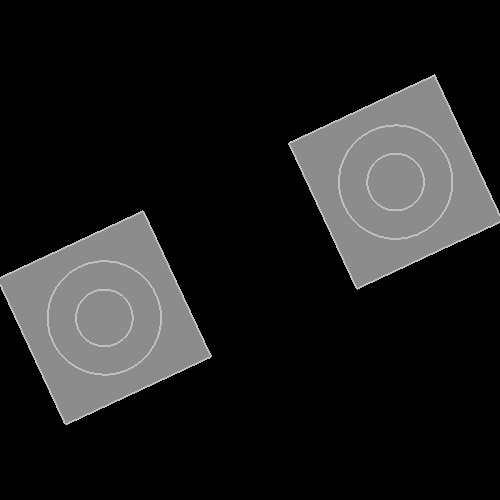
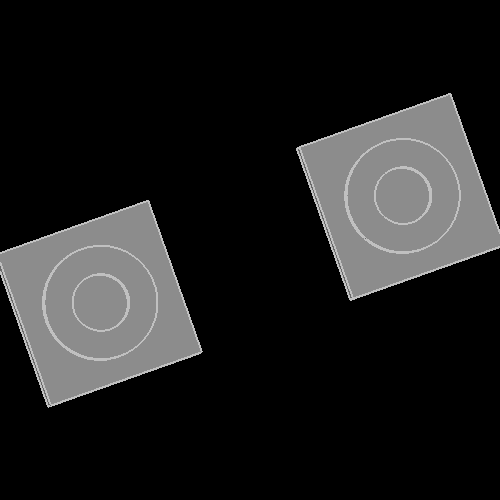
[Viewport] Handle predefined views independent from view cube.

diff --git a/Source/Macad.Interaction/Workspace/ViewportController.cs b/Source/Macad.Interaction/Workspace/ViewportController.cs
@@ -3,16 +3,14 @@ using System.Collections.Generic;
 using System.Diagnostics;
 using System.Drawing;
 using System.Windows;
-using System.Windows.Forms;
 using System.Windows.Input;
 using Macad.Common;
 using Macad.Common.Interop;
 using Macad.Core;
-using Macad.Core.Shapes;
 using Macad.Occt;
 using Macad.Occt.Helper;
+using Macad.Occt.Extensions;
 using Macad.Resources;
-using static Macad.Core.Viewport;
 using Color = Macad.Common.Color;
 using Point = System.Windows.Point;
 
@@ -57,7 +55,7 @@ public sealed class ViewportController : BaseObject, IDisposable
             {
                 if (value)
                 {
-                    SetPredefinedView(PredefinedViews.WorkingPlane);
+                    SetPredefinedView(PredefinedViews.WorkingPlane, true);
                         
                 }
                 _LockedToPlane = value;
@@ -157,7 +155,7 @@ public sealed class ViewportController : BaseObject, IDisposable
     readonly List<ValueTuple<int, int>> _RubberbandPoints = new();
 
     AIS_AnimationCamera _AisAnimationCamera;
-    Macad.Occt.Ext.AIS_ViewCubeEx _AisViewCube;
+    AIS_ViewCubeEx _AisViewCube;
 
     //--------------------------------------------------------------------------------------------------
 
@@ -304,7 +302,7 @@ public sealed class ViewportController : BaseObject, IDisposable
 
     //--------------------------------------------------------------------------------------------------
 
-    public void SetPredefinedView(PredefinedViews predefinedView)
+    public void SetPredefinedView(PredefinedViews predefinedView, bool animate=false)
     {
         if (predefinedView == PredefinedViews.WorkingPlane)
         {
@@ -317,42 +315,72 @@ public sealed class ViewportController : BaseObject, IDisposable
             WorkspaceController.Invalidate();
             return;
         }
-        
+
         // Currently the view cube is needed to execute the rotation. This is
         // ok as long as there is always a view cube present when rotation is allowed.
-        if(_LockedToPlane || _AisViewCube == null)
+        if (_LockedToPlane)
             return;
 
-        V3d_TypeOfOrientation orientation;
-        switch (predefinedView)
+        if (animate
+            && _AisAnimationCamera.Duration() > 0.001)
         {
-            case PredefinedViews.Top:
-                orientation = V3d_TypeOfOrientation.Zup_Top;
-                break;
-            case PredefinedViews.Bottom:
-                orientation = V3d_TypeOfOrientation.Zup_Bottom;
-                break;
-            case PredefinedViews.Left:
-                orientation = V3d_TypeOfOrientation.Zup_Left;
-                break;
-            case PredefinedViews.Right:
-                orientation = V3d_TypeOfOrientation.Zup_Right;
-                break;
-            case PredefinedViews.Front:
-                orientation = V3d_TypeOfOrientation.Zup_Front;
-                break;
-            case PredefinedViews.Back:
-                orientation = V3d_TypeOfOrientation.Zup_Back;
-                break;
-            default:
-                return;
+            Graphic3d_Camera camStart = new();
+            Graphic3d_Camera camEnd = new();
+            Graphic3d_Camera camBackup = V3dView.Camera();
+            camStart.Copy(camBackup);
+            camEnd.Copy(camBackup);
+
+            bool wasImmediateUpdate = V3dView.SetImmediateUpdate(false);
+            V3dView.SetCamera(camEnd);
+
+            __ApplyPredefinedView();
+
+            V3dView.SetCamera(camBackup);
+            V3dView.SetImmediateUpdate(wasImmediateUpdate);
+            _AisAnimationCamera.SetCameraStart(camStart);
+            _AisAnimationCamera.SetCameraEnd(camEnd);
+            _AisAnimationCamera.StartTimer(0.0, 1.0, true, false);
+
+            camStart.Dispose();
+            camEnd.Dispose();
+            camBackup.Dispose();
         }
+        else
+        {
+            __ApplyPredefinedView();
+        }
+        return;
 
-        var viewCubeOwner = new AIS_ViewCubeOwner(_AisViewCube, orientation);
-        _AisViewCube.HandleClick(viewCubeOwner);
-        viewCubeOwner.Dispose();
+        //--------------------------------------------------------------------------------------------------
 
-        WorkspaceController.Invalidate();
+        void __ApplyPredefinedView()
+        {
+            V3d_TypeOfOrientation? orientation =
+                predefinedView switch
+                {
+                    PredefinedViews.Top => V3d_TypeOfOrientation.Zup_Top,
+                    PredefinedViews.Bottom => V3d_TypeOfOrientation.Zup_Bottom,
+                    PredefinedViews.Left => V3d_TypeOfOrientation.Zup_Left,
+                    PredefinedViews.Right => V3d_TypeOfOrientation.Zup_Right,
+                    PredefinedViews.Front => V3d_TypeOfOrientation.Zup_Front,
+                    PredefinedViews.Back => V3d_TypeOfOrientation.Zup_Back,
+                    _ => null
+                };
+
+            if (orientation.HasValue)
+            {
+                V3dView.SetProj(orientation.Value);
+               
+                if (WorkspaceController.Selection.SelectedEntities.Count > 0)
+                {
+                    ZoomFitSelected(); // Will also sync from V3dView to Viewport and invalidate
+                }
+                else
+                {
+                    ZoomFitAll(); // Will also sync from V3dView to Viewport and Invalidate
+                }
+            }
+        }
     }
 
     //--------------------------------------------------------------------------------------------------
@@ -665,10 +693,12 @@ public sealed class ViewportController : BaseObject, IDisposable
     void _SetViewCube(bool isVisible, uint size, double duration)
     {
         var aisContext = WorkspaceController.AisContext;
-            
+        duration += 0.001; // Avoid zero duration to force at least one frame of updating
+
         if (_AisViewCube != null)
         {
             __SetSize(size);
+            _AisViewCube.SetDuration(duration);
             _SetViewCube(isVisible);
             return;
         }
@@ -942,9 +972,10 @@ public sealed class ViewportController : BaseObject, IDisposable
     void _UpdateFromViewParameterSet()
     {
         var parameterSet = InteractiveContext.Current.Parameters.Get<ViewportParameterSet>();
-        _SetViewCube(parameterSet.ShowViewCube, parameterSet.ViewCubeSize, parameterSet.ViewCubeAnimationDuration);
-        _SetTrihedron(parameterSet.ShowTrihedron);
         _ShowTrihedron = parameterSet.ShowTrihedron;
+        _AisAnimationCamera.SetOwnDuration(parameterSet.CameraAnimationDuration);
+        _SetViewCube(parameterSet.ShowViewCube, parameterSet.ViewCubeSize, parameterSet.CameraAnimationDuration);
+        _SetTrihedron(_ShowTrihedron);
     }
 
     //--------------------------------------------------------------------------------------------------
@@ -985,10 +1016,10 @@ public sealed class ViewportController : BaseObject, IDisposable
         if (V3dView == null)
             return;
 
-        V3dView.SetComputedMode(Viewport.RenderMode == RenderModes.HLR);
+        V3dView.SetComputedMode(Viewport.RenderMode == Viewport.RenderModes.HLR);
 
         var renderParams = V3dView.ChangeRenderingParams();
-        if (Viewport.RenderMode == RenderModes.Raytraced)
+        if (Viewport.RenderMode == Viewport.RenderModes.Raytraced)
         {
             renderParams.Method = Graphic3d_RenderingMode.RAYTRACING;
         }

diff --git a/Tests/Test.Interaction/Infrastructure/ViewportTests.cs b/Tests/Test.Interaction/Infrastructure/ViewportTests.cs
@@ -271,7 +271,7 @@ public class ViewportTests
             Assert.That(paramsPost, Is.Not.EqualTo(paramsPre));
 
             // Select predefined view
-            ctx.WorkspaceController.ActiveViewControlller.SetPredefinedView(ViewportController.PredefinedViews.Front);
+            ctx.WorkspaceController.ActiveViewControlller.SetPredefinedView(ViewportController.PredefinedViews.Front, true);
             Thread.Sleep(500);
             ctx.WorkspaceController.Invalidate(forceRedraw: true);
             paramsPost = ctx.Viewport.GetViewParameters();
@@ -324,4 +324,76 @@ public class ViewportTests
         ctx.ViewportController.PanToCenter(bodies[0].Position);
         AssertHelper.IsSameViewport(Path.Combine(_BasePath, "PanToCenter01"));
     }
+
+    //--------------------------------------------------------------------------------------------------
+
+    [Test]
+    public void PredefinedViews()
+    {
+        var ctx = Context.Current;
+        var vc = ctx.ViewportController;
+
+        var viewportParameterSet = InteractiveContext.Current.Parameters.Get<ViewportParameterSet>();
+        viewportParameterSet.ShowTrihedron = true;
+        viewportParameterSet.ShowViewCube = true;
+        viewportParameterSet.ViewCubeSize = 300;
+
+        Assert.Multiple(() =>
+        {
+            vc.SetPredefinedView(ViewportController.PredefinedViews.Front, false);
+            Assert.That(vc.Viewport.GetViewDirection().IsEqual(Dir.DY, 1e-10));
+            Assert.That(vc.Viewport.GetRightDirection().IsEqual(Dir.DX, 1e-10));
+            Assert.That(vc.Viewport.GetUpDirection().IsEqual(Dir.DZ, 1e-10));
+
+            vc.SetPredefinedView(ViewportController.PredefinedViews.Back, false);
+            Assert.That(vc.Viewport.GetViewDirection().IsEqual(Dir.DY.Reversed(), 1e-10));
+            Assert.That(vc.Viewport.GetRightDirection().IsEqual(Dir.DX.Reversed(), 1e-10));
+            Assert.That(vc.Viewport.GetUpDirection().IsEqual(Dir.DZ, 1e-10));
+
+            vc.SetPredefinedView(ViewportController.PredefinedViews.Right, false);
+            Assert.That(vc.Viewport.GetViewDirection().IsEqual(Dir.DX.Reversed(), 1e-10));
+            Assert.That(vc.Viewport.GetRightDirection().IsEqual(Dir.DY, 1e-10));
+            Assert.That(vc.Viewport.GetUpDirection().IsEqual(Dir.DZ, 1e-10));
+
+            vc.SetPredefinedView(ViewportController.PredefinedViews.Left, false);
+            Assert.That(vc.Viewport.GetViewDirection().IsEqual(Dir.DX, 1e-10));
+            Assert.That(vc.Viewport.GetRightDirection().IsEqual(Dir.DY.Reversed(), 1e-10));
+            Assert.That(vc.Viewport.GetUpDirection().IsEqual(Dir.DZ, 1e-10));
+
+            vc.SetPredefinedView(ViewportController.PredefinedViews.Top, false);
+            Assert.That(vc.Viewport.GetViewDirection().IsEqual(Dir.DZ.Reversed(), 1e-10));
+            Assert.That(vc.Viewport.GetRightDirection().IsEqual(Dir.DX, 1e-10));
+            Assert.That(vc.Viewport.GetUpDirection().IsEqual(Dir.DY, 1e-10));
+
+            vc.SetPredefinedView(ViewportController.PredefinedViews.Bottom, false);
+            Assert.That(vc.Viewport.GetViewDirection().IsEqual(Dir.DZ, 1e-10));
+            Assert.That(vc.Viewport.GetRightDirection().IsEqual(Dir.DX, 1e-10));
+            Assert.That(vc.Viewport.GetUpDirection().IsEqual(Dir.DY.Reversed(), 1e-10));
+
+            //AssertHelper.IsSameViewport(Path.Combine(_BasePath, $"PredefinedViews"));
+        });
+    }
+
+    //--------------------------------------------------------------------------------------------------
+
+    [Test]
+    public void PredefinedViewsZoomFit()
+    {
+        var ctx = Context.Current;
+        var vc = ctx.ViewportController;
+
+        Assert.Multiple(() =>
+        {
+            var bodies = TestGeomGenerator.CreateBoxCylinderSphere();
+            vc.SetPredefinedView(ViewportController.PredefinedViews.Front, false);
+            AssertHelper.IsSameViewport(Path.Combine(_BasePath, "PredefinedViewsZoomFit01"));
+
+            ctx.WorkspaceController.Selection.SelectEntity(bodies[0]);
+            vc.SetPredefinedView(ViewportController.PredefinedViews.Front, false);
+            AssertHelper.IsSameViewport(Path.Combine(_BasePath, "PredefinedViewsZoomFit02"));
+        });
+    }
+
+    //--------------------------------------------------------------------------------------------------
+
 }

diff --git a/Source/Macad.Interaction/Workspace/ViewportParameterSet.cs b/Source/Macad.Interaction/Workspace/ViewportParameterSet.cs
@@ -46,12 +46,12 @@ public sealed partial class ViewportParameterSet
 
     //--------------------------------------------------------------------------------------------------
 
-    Parameter<double> _ViewCubeAnimationDuration = new()
+    Parameter<double> _CameraAnimationDuration = new()
     {
-        Name = "ViewCubeAnimationDuration",
+        Name = "CameraAnimationDuration",
         DefaultValue = 0.3,
-        Description = "Defines the duration of the view cube rotation animation in seconds.",
-        EditorHints = new() { { "Units", "Seconds" }, { "MinValue", 0.1 }, { "MaxValue", 10.0 }, { "Precision", 1 } }
+        Description = "Defines the duration of the camera view rotation when switching to a defined view.",
+        EditorHints = new() { { "Units", "Seconds" }, { "MinValue", 0.0 }, { "MaxValue", 10.0 }, { "Precision", 1 } }
     };
 
     //--------------------------------------------------------------------------------------------------

diff --git a/Source/Macad.Managed/OcctExtensions/AIS_ViewCubeEx.h b/Source/Macad.Managed/OcctExtensions/AIS_ViewCubeEx.h
@@ -2,10 +2,8 @@
 
 #include <AIS_ViewCube.hxx>
 
-DEFINE_STANDARD_HANDLE(AIS_ViewCubeEx, AIS_ViewCube)
 
-
-public class AIS_ViewCubeEx : public ::AIS_ViewCube
+class AIS_ViewCubeEx : public ::AIS_ViewCube
 {
 	DEFINE_STANDARD_RTTIEXT(AIS_ViewCubeEx, AIS_ViewCube)
 
@@ -25,3 +23,5 @@ protected:
 	                            Standard_Integer& theNbNodes, Standard_Integer& theNbTris,
 	                            V3d_TypeOfOrientation theDirection) const override;
 };
+
+DEFINE_STANDARD_HANDLE(AIS_ViewCubeEx, AIS_ViewCube)

diff --git a/Source/Macad.Interaction/Commands/WorkspaceCommands.cs b/Source/Macad.Interaction/Commands/WorkspaceCommands.cs
@@ -554,7 +554,7 @@ public static class WorkspaceCommands
     public static ActionCommand<ViewportController.PredefinedViews> SetPredefinedView { get; } = new(
         (param) =>
         {
-            InteractiveContext.Current?.ViewportController?.SetPredefinedView(param);
+            InteractiveContext.Current?.ViewportController?.SetPredefinedView(param, true);
         },
         (param) => CanExecuteOnViewport() && !InteractiveContext.Current.ViewportController.LockedToPlane)
     {

diff --git a/Tests/Test.Interaction/Sketch/SketchEditorToolTests.cs b/Tests/Test.Interaction/Sketch/SketchEditorToolTests.cs
@@ -1023,7 +1023,6 @@ public class SketchEditorToolTests
 
         // Select predefined topview
         ctx.WorkspaceController.ActiveViewControlller.SetPredefinedView(ViewportController.PredefinedViews.Top);
-        Thread.Sleep(500);
         ctx.WorkspaceController.Invalidate(forceRedraw:true);
 //            AssertHelper.IsSameViewport(Path.Combine(_BasePath, "RestoreWorkingContext22"), 0.1);
             

diff --git a/Source/Macad.Core/Project/Viewport.cs b/Source/Macad.Core/Project/Viewport.cs
@@ -226,6 +226,7 @@ public sealed class Viewport : BaseObject, IDisposable
             return false;
         }
         xVec.Normalize();
+        xVec.Rotate(new (Pnt.Origin, viewDir), _Twist.ToRad());
 
         Vec zVec = xVec.Coord.Crossed(viewDir.Coord).ToVec();
         if (zVec.Magnitude() <= gp.Resolution)

diff --git a/Tests/Test.Memory/Interaction/ToolTests.cs b/Tests/Test.Memory/Interaction/ToolTests.cs
@@ -9,7 +9,7 @@ using Macad.Interaction;
 using Macad.Interaction.Editors.Shapes;
 using Macad.Interaction.Editors.Toolkits;
 using Macad.Interaction.Visual;
-using Macad.Occt.Ext;
+using Macad.Occt.Extensions;
 using NUnit.Framework;
 
 namespace Macad.Test.Memory.Interaction;

diff --git a/Source/Macad.Interaction/Visual/Marker.cs b/Source/Macad.Interaction/Visual/Marker.cs
@@ -5,7 +5,7 @@ using System.Windows.Media.Imaging;
 using Macad.Common;
 using Macad.Core;
 using Macad.Occt;
-using Macad.Occt.Ext;
+using Macad.Occt.Extensions;
 using Macad.Occt.Helper;
 using Macad.Resources;
 

diff --git a/Source/Macad.Managed/OcctExtensions/AIS_ViewCubeEx_Managed.cpp b/Source/Macad.Managed/OcctExtensions/AIS_ViewCubeEx_Managed.cpp
@@ -8,7 +8,7 @@ namespace Macad
 {
 	namespace Occt
 	{
-		namespace Ext
+		namespace Extensions
 		{
 			public ref class AIS_ViewCubeEx sealed : public Macad::Occt::AIS_ViewCube
 			{

diff --git a/Source/Macad.Managed/OcctExtensions/AIS_PointEx_Managed.cpp b/Source/Macad.Managed/OcctExtensions/AIS_PointEx_Managed.cpp
@@ -8,7 +8,7 @@ namespace Macad
 {
 	namespace Occt
 	{
-		namespace Ext
+		namespace Extensions
 		{
 			public ref class AIS_PointEx sealed : Macad::Occt::AIS_Point
 			{

diff --git a/Tests/Test.Core/CoreTestSetup.cs b/Tests/Test.Core/CoreTestSetup.cs
@@ -21,6 +21,6 @@ public class CoreTestSetup
     [OneTimeTearDown]
     public void TearDown()
     {
-
+            
     }
 }
